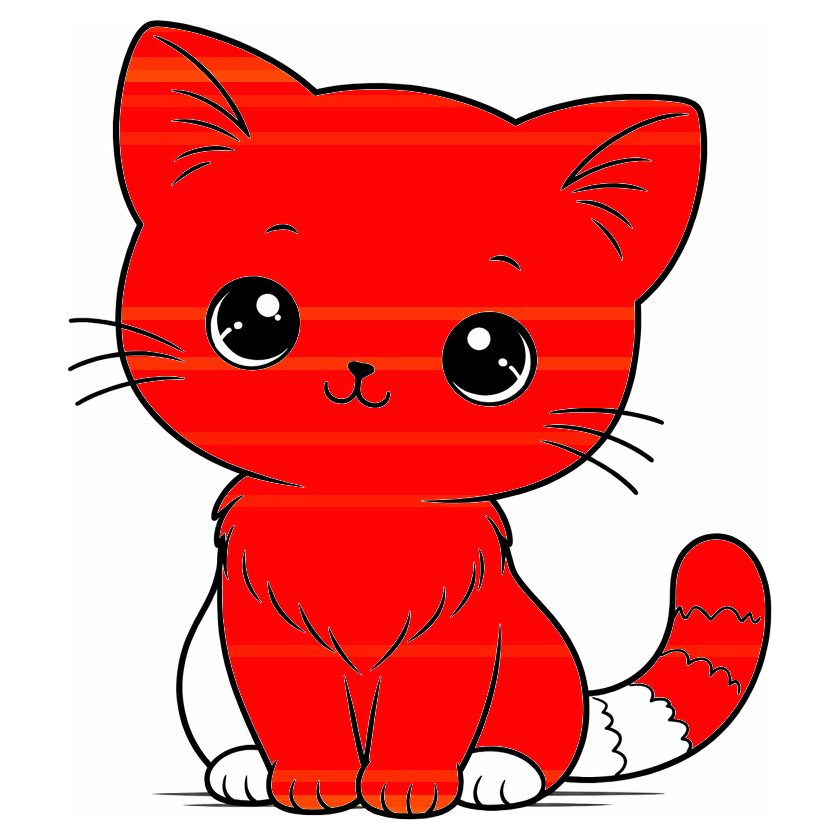
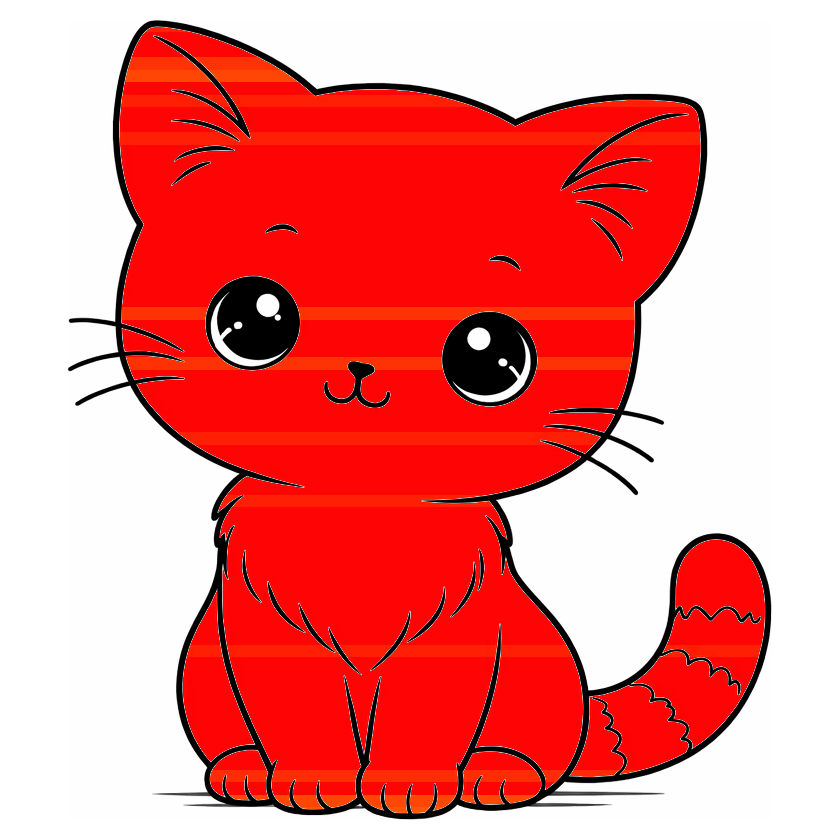
Fix eye detection threshold to not mask tail and paws
Reduced eye_max_fraction from 2% to 0.15% of image area. The eye whites
are ~0.1% (~700px) while paw/tail regions are 0.3%+ (~2000px), so the
previous threshold was incorrectly masking body parts.

https://claude.ai/code/session_01Y1zeYokrXQCEx2qjFvhX8B

Changed region(s): [[0.2167, 0.7119, 0.3405, 0.9595], [0.681, 0.8048, 0.8357, 0.9286], [0.5262, 0.8976, 0.65, 0.9595]]

diff --git a/excat.py b/excat.py
@@ -139,7 +139,7 @@ def find_content_bbox(img: Image.Image, threshold: int = 240) -> tuple[int, int,
 def build_background_mask(
     img: Image.Image,
     threshold: int = 200,
-    eye_max_fraction: float = 0.02,
+    eye_max_fraction: float = 0.0015,
 ) -> list[list[bool]]:
     """Flood-fill from image edges to identify background pixels, plus eye whites.
 
